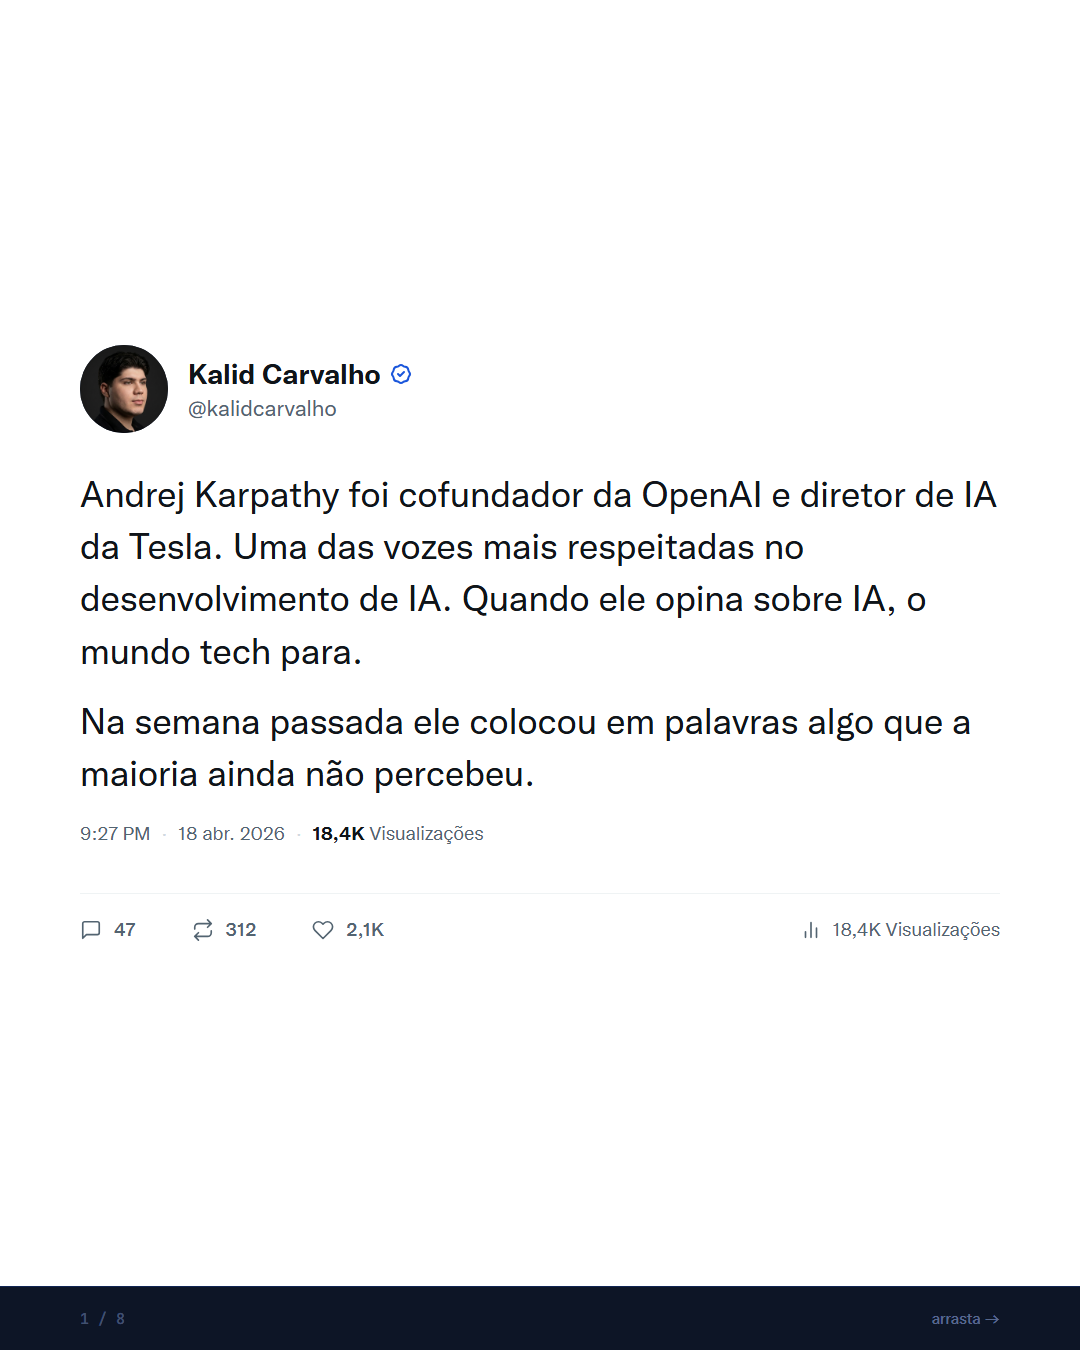
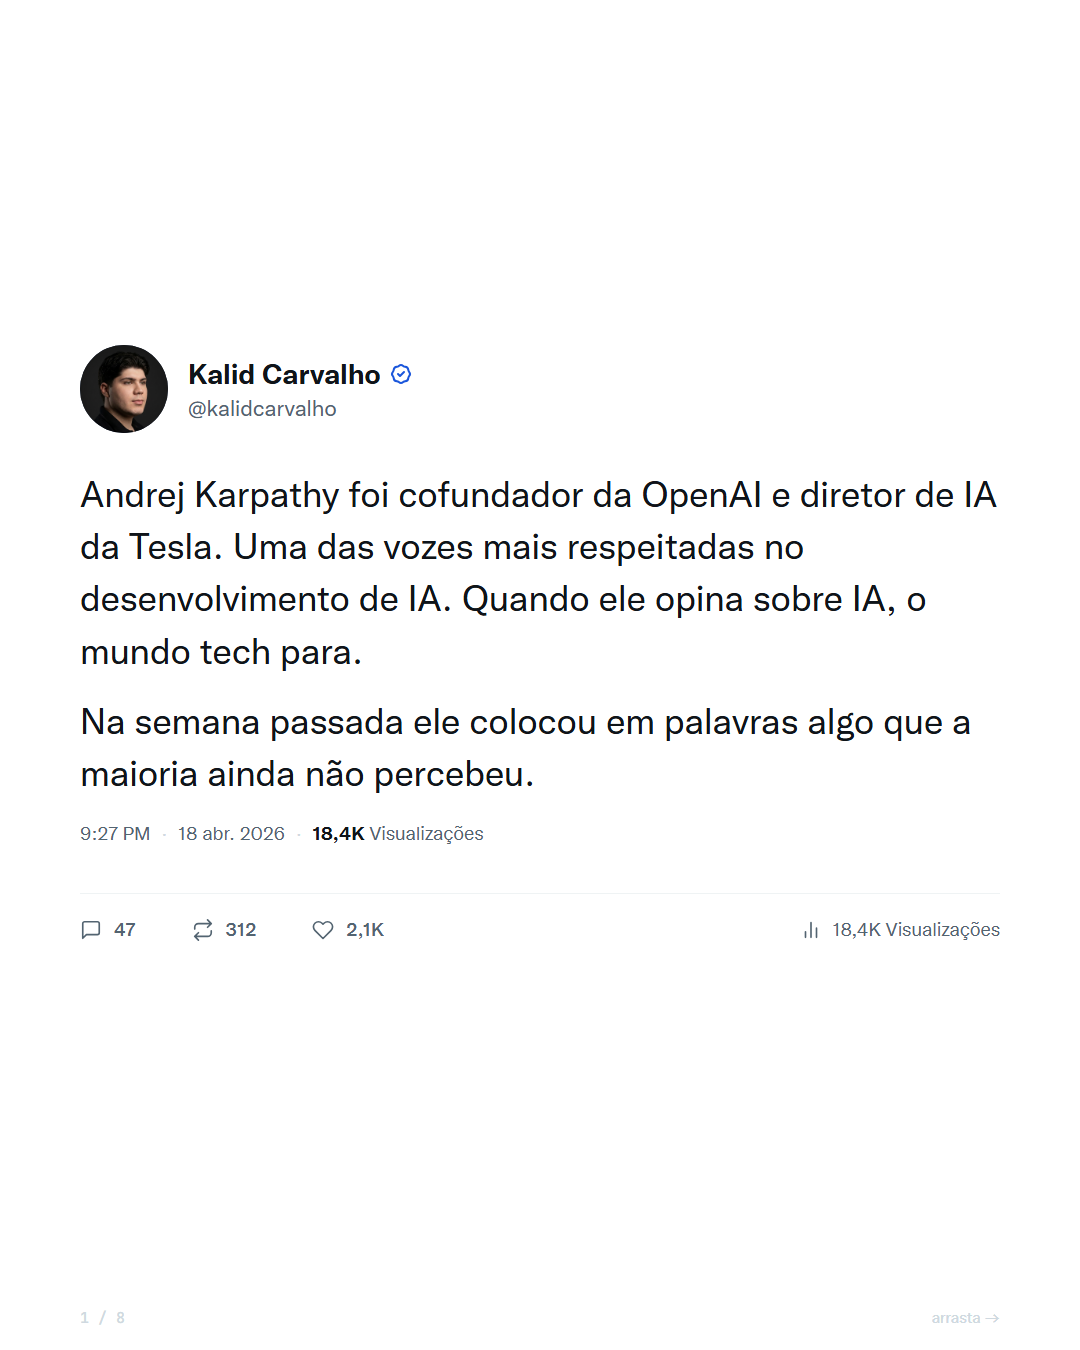
auto-sync: 2026-04-18 10:12

Changed region(s): [[0.0, 0.9333, 1.0, 1.0]]

diff --git a/conteudo/kalidcarvalho/carrosseis/2026-04-18/instagram/slide-01.html b/conteudo/kalidcarvalho/carrosseis/2026-04-18/instagram/slide-01.html
@@ -108,12 +108,12 @@ body {
   position: absolute; bottom: 0; left: 0; right: 0; height: 64px;
   display: flex; align-items: center; justify-content: space-between;
   padding: 0 80px;
-  background: #0D1526;
-  border-top: 1px solid rgba(26,86,219,0.25);
+  
+  
   z-index: 15;
 }
-.progress { font-family: 'JetBrains Mono', monospace; font-size: 15px; font-weight: 500; color: rgba(155,179,232,0.40); }
-.swipe { font-size: 15px; font-weight: 500; color: rgba(155,179,232,0.55); }
+.progress { font-family: 'JetBrains Mono', monospace; font-size: 15px; font-weight: 500; color: #CFD9E0; }
+.swipe { font-size: 15px; font-weight: 500; color: #CFD9E0; }
 </style>
 </head>
 <body>

diff --git a/conteudo/kalidcarvalho/carrosseis/2026-04-18/instagram/slide-08.html b/conteudo/kalidcarvalho/carrosseis/2026-04-18/instagram/slide-08.html
@@ -99,12 +99,12 @@ body {
   position: absolute; bottom: 0; left: 0; right: 0; height: 64px;
   display: flex; align-items: center; justify-content: space-between;
   padding: 0 80px;
-  background: #0D1526;
-  border-top: 1px solid rgba(26,86,219,0.25);
+  
+  
   z-index: 15;
 }
-.progress { font-family: 'JetBrains Mono', monospace; font-size: 15px; font-weight: 500; color: rgba(155,179,232,0.40); }
-.handle { font-size: 15px; font-weight: 500; color: rgba(155,179,232,0.55); }
+.progress { font-family: 'JetBrains Mono', monospace; font-size: 15px; font-weight: 500; color: #CFD9E0; }
+.handle { font-size: 15px; font-weight: 500; color: #CFD9E0; }
 </style>
 </head>
 <body>

diff --git a/conteudo/kalidcarvalho/carrosseis/2026-04-18/instagram/slide-02.html b/conteudo/kalidcarvalho/carrosseis/2026-04-18/instagram/slide-02.html
@@ -99,12 +99,12 @@ body {
   position: absolute; bottom: 0; left: 0; right: 0; height: 64px;
   display: flex; align-items: center; justify-content: space-between;
   padding: 0 80px;
-  background: #0D1526;
-  border-top: 1px solid rgba(26,86,219,0.25);
+  
+  
   z-index: 15;
 }
-.progress { font-family: 'JetBrains Mono', monospace; font-size: 15px; font-weight: 500; color: rgba(155,179,232,0.40); }
-.swipe { font-size: 15px; font-weight: 500; color: rgba(155,179,232,0.55); }
+.progress { font-family: 'JetBrains Mono', monospace; font-size: 15px; font-weight: 500; color: #CFD9E0; }
+.swipe { font-size: 15px; font-weight: 500; color: #CFD9E0; }
 </style>
 </head>
 <body>

diff --git a/conteudo/kalidcarvalho/carrosseis/2026-04-18/instagram/slide-03.html b/conteudo/kalidcarvalho/carrosseis/2026-04-18/instagram/slide-03.html
@@ -99,12 +99,12 @@ body {
   position: absolute; bottom: 0; left: 0; right: 0; height: 64px;
   display: flex; align-items: center; justify-content: space-between;
   padding: 0 80px;
-  background: #0D1526;
-  border-top: 1px solid rgba(26,86,219,0.25);
+  
+  
   z-index: 15;
 }
-.progress { font-family: 'JetBrains Mono', monospace; font-size: 15px; font-weight: 500; color: rgba(155,179,232,0.40); }
-.swipe { font-size: 15px; font-weight: 500; color: rgba(155,179,232,0.55); }
+.progress { font-family: 'JetBrains Mono', monospace; font-size: 15px; font-weight: 500; color: #CFD9E0; }
+.swipe { font-size: 15px; font-weight: 500; color: #CFD9E0; }
 </style>
 </head>
 <body>

diff --git a/conteudo/kalidcarvalho/carrosseis/2026-04-18/instagram/slide-04.html b/conteudo/kalidcarvalho/carrosseis/2026-04-18/instagram/slide-04.html
@@ -99,12 +99,12 @@ body {
   position: absolute; bottom: 0; left: 0; right: 0; height: 64px;
   display: flex; align-items: center; justify-content: space-between;
   padding: 0 80px;
-  background: #0D1526;
-  border-top: 1px solid rgba(26,86,219,0.25);
+  
+  
   z-index: 15;
 }
-.progress { font-family: 'JetBrains Mono', monospace; font-size: 15px; font-weight: 500; color: rgba(155,179,232,0.40); }
-.swipe { font-size: 15px; font-weight: 500; color: rgba(155,179,232,0.55); }
+.progress { font-family: 'JetBrains Mono', monospace; font-size: 15px; font-weight: 500; color: #CFD9E0; }
+.swipe { font-size: 15px; font-weight: 500; color: #CFD9E0; }
 </style>
 </head>
 <body>

diff --git a/conteudo/kalidcarvalho/carrosseis/2026-04-18/instagram/slide-05.html b/conteudo/kalidcarvalho/carrosseis/2026-04-18/instagram/slide-05.html
@@ -99,12 +99,12 @@ body {
   position: absolute; bottom: 0; left: 0; right: 0; height: 64px;
   display: flex; align-items: center; justify-content: space-between;
   padding: 0 80px;
-  background: #0D1526;
-  border-top: 1px solid rgba(26,86,219,0.25);
+  
+  
   z-index: 15;
 }
-.progress { font-family: 'JetBrains Mono', monospace; font-size: 15px; font-weight: 500; color: rgba(155,179,232,0.40); }
-.swipe { font-size: 15px; font-weight: 500; color: rgba(155,179,232,0.55); }
+.progress { font-family: 'JetBrains Mono', monospace; font-size: 15px; font-weight: 500; color: #CFD9E0; }
+.swipe { font-size: 15px; font-weight: 500; color: #CFD9E0; }
 </style>
 </head>
 <body>

diff --git a/conteudo/kalidcarvalho/carrosseis/2026-04-18/instagram/slide-06.html b/conteudo/kalidcarvalho/carrosseis/2026-04-18/instagram/slide-06.html
@@ -99,12 +99,12 @@ body {
   position: absolute; bottom: 0; left: 0; right: 0; height: 64px;
   display: flex; align-items: center; justify-content: space-between;
   padding: 0 80px;
-  background: #0D1526;
-  border-top: 1px solid rgba(26,86,219,0.25);
+  
+  
   z-index: 15;
 }
-.progress { font-family: 'JetBrains Mono', monospace; font-size: 15px; font-weight: 500; color: rgba(155,179,232,0.40); }
-.swipe { font-size: 15px; font-weight: 500; color: rgba(155,179,232,0.55); }
+.progress { font-family: 'JetBrains Mono', monospace; font-size: 15px; font-weight: 500; color: #CFD9E0; }
+.swipe { font-size: 15px; font-weight: 500; color: #CFD9E0; }
 </style>
 </head>
 <body>

diff --git a/conteudo/kalidcarvalho/carrosseis/2026-04-18/instagram/slide-07.html b/conteudo/kalidcarvalho/carrosseis/2026-04-18/instagram/slide-07.html
@@ -99,12 +99,12 @@ body {
   position: absolute; bottom: 0; left: 0; right: 0; height: 64px;
   display: flex; align-items: center; justify-content: space-between;
   padding: 0 80px;
-  background: #0D1526;
-  border-top: 1px solid rgba(26,86,219,0.25);
+  
+  
   z-index: 15;
 }
-.progress { font-family: 'JetBrains Mono', monospace; font-size: 15px; font-weight: 500; color: rgba(155,179,232,0.40); }
-.swipe { font-size: 15px; font-weight: 500; color: rgba(155,179,232,0.55); }
+.progress { font-family: 'JetBrains Mono', monospace; font-size: 15px; font-weight: 500; color: #CFD9E0; }
+.swipe { font-size: 15px; font-weight: 500; color: #CFD9E0; }
 </style>
 </head>
 <body>
